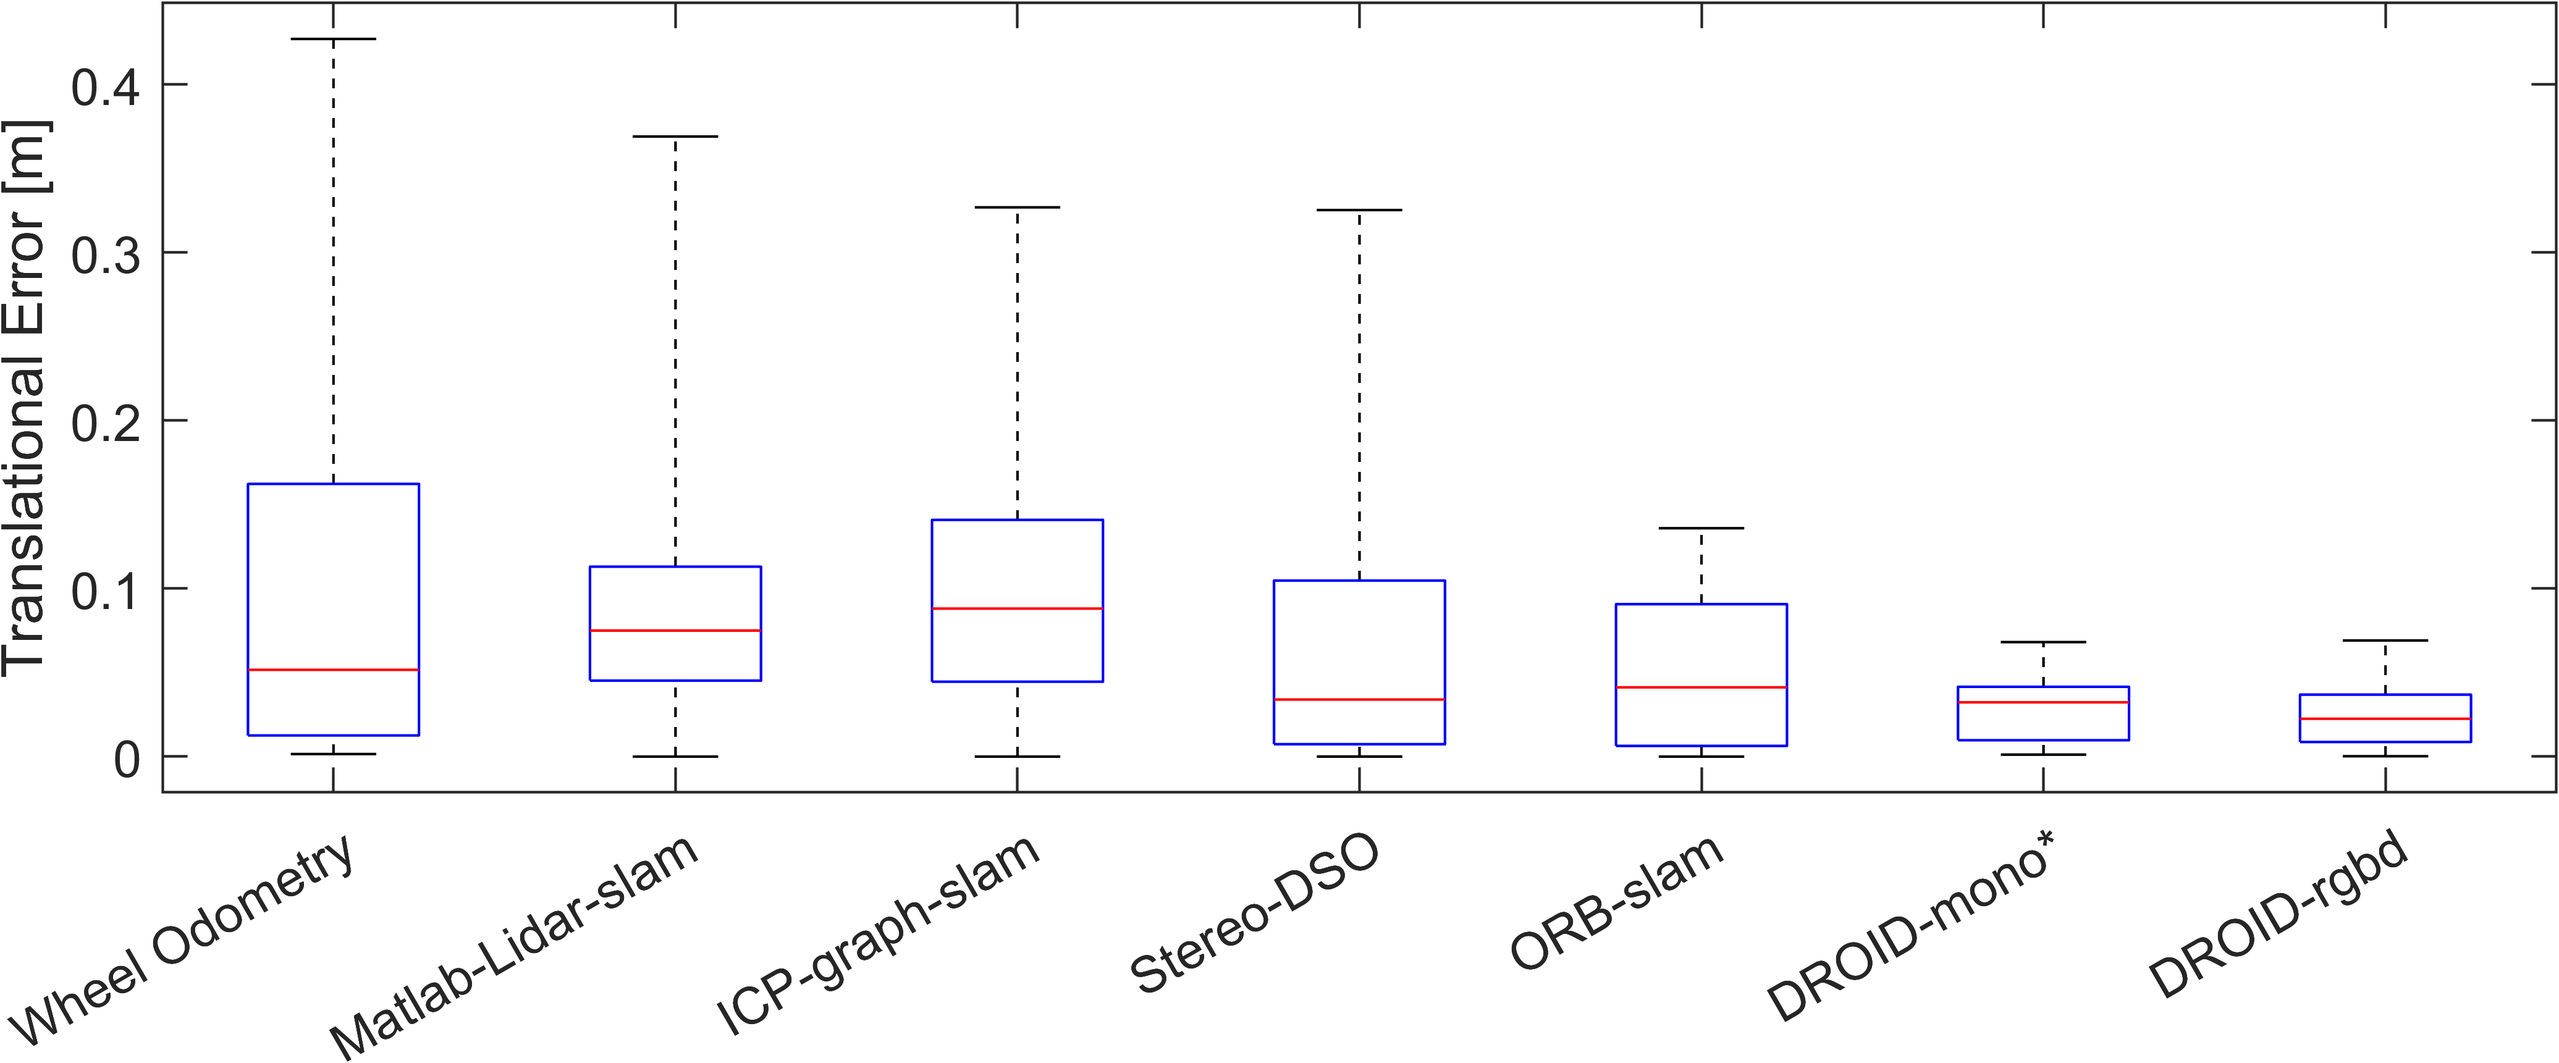
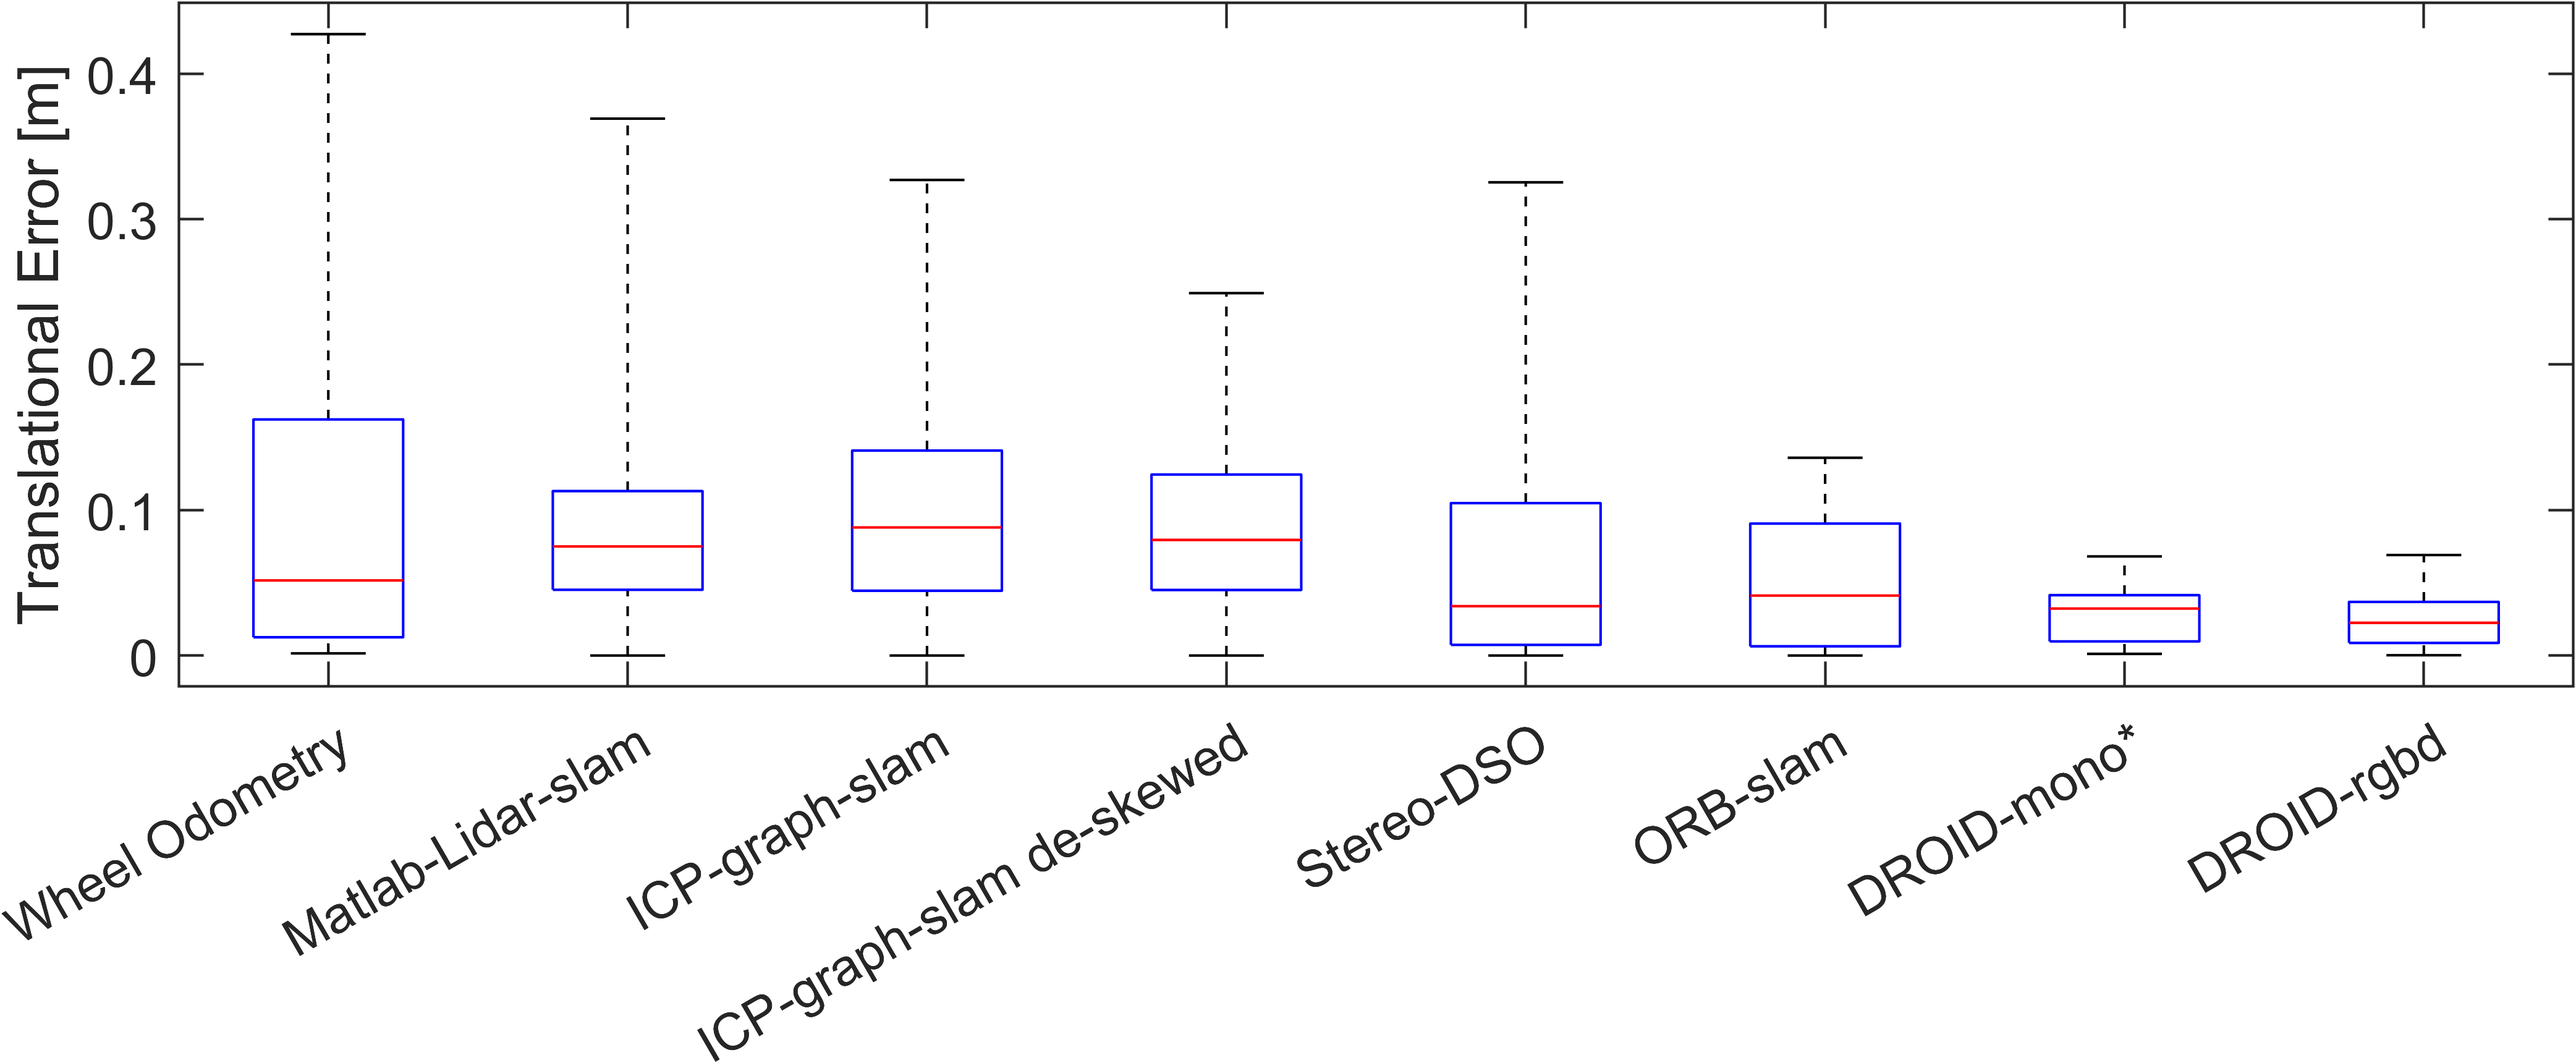
Add icp deskewed result to evaluation script

diff --git a/Rikirobot/Matlab/example_compare_trajectories/main.m b/Rikirobot/Matlab/example_compare_trajectories/main.m
@@ -39,6 +39,8 @@ poses_lidar_slam=poses;
 % import trajectory from icp graph slam
 load('../example_icp_graph_slam/final_poses_graph_icp.mat')
 poses_icp_graph_slam = Poses;
+load('../example_icp_graph_slam/final_poses_graph_icp_deskewed.mat')
+poses_icp_graph_slam_deskewed = Poses;
 
 % translate and rotated poses_slam by the start pose of gt
 poses_lidar_slam(:,1)=poses_lidar_slam(:,1)+poses_gt(1,1);
@@ -46,9 +48,12 @@ poses_lidar_slam(:,2)=poses_lidar_slam(:,2)+poses_gt(1,2);
 poses_lidar_slam(:,3)=poses_lidar_slam(:,3)+poses_gt(1,3);
 
 % translate and rotated poses of icp graph slam by the start pose of gt
-poses_icp_graph_slam(:,1)=Poses(:,1)+poses_gt(1,1);
-poses_icp_graph_slam(:,2)=Poses(:,2)+poses_gt(1,2);
-poses_icp_graph_slam(:,3)=Poses(:,3)+poses_gt(1,3);
+poses_icp_graph_slam(:,1)=poses_icp_graph_slam(:,1)+poses_gt(1,1);
+poses_icp_graph_slam(:,2)=poses_icp_graph_slam(:,2)+poses_gt(1,2);
+poses_icp_graph_slam(:,3)=poses_icp_graph_slam(:,3)+poses_gt(1,3);
+poses_icp_graph_slam_deskewed(:,1)=Poses(:,1)+poses_gt(1,1);
+poses_icp_graph_slam_deskewed(:,2)=Poses(:,2)+poses_gt(1,2);
+poses_icp_graph_slam_deskewed(:,3)=Poses(:,3)+poses_gt(1,3);
 
 % plot
 % figure
@@ -87,32 +92,34 @@ poses_droid_mono = poses_droid_mono * 1.2;
 % exportgraphics(gca,'example_compare_trajectories_vision.png','Resolution',300)
 
 %% Quantitative result estimate-to-GT
-[dist1, g1] = evalE2G(poses_gt, poses_odometry, 'Odometry');
-[dist2, g2] = evalE2G(poses_gt, poses_lidar_slam(:,[1,2]), 'Lidar-slam');
-[dist3, g3] = evalE2G(poses_gt, poses_icp_graph_slam(:,[1,2]), 'ICP-graph-slam');
-[dist6, g6] = evalE2G(poses_gt, poses_stereo_dso, 'Stereo-DSO');
-[dist7, g7] = evalE2G(poses_gt, poses_orb_slam, 'ORB-slam');
-[dist4, g4] = evalE2G(poses_gt, poses_droid_mono, 'DROID-mono');
-[dist5, g5] = evalE2G(poses_gt, poses_droid_rgbd, 'DROID-rgbd');
-
-dist = [dist1; dist2; dist3; dist6; dist7; dist4; dist5];
-g = [g1; g2; g3; g6; g7; g4; g5];
-figure
-boxplot(dist, g)
-title('Absolute trajectory error (ATE) Estimate-to-GT')
-ylabel('Error [m]')
+% [dist1, g1] = evalE2G(poses_gt, poses_odometry, 'Odometry');
+% [dist2, g2] = evalE2G(poses_gt, poses_lidar_slam(:,[1,2]), 'Lidar-slam');
+% [dist3, g3] = evalE2G(poses_gt, poses_icp_graph_slam(:,[1,2]), 'ICP-graph-slam');
+% [dist8, g8] = evalE2G(poses_gt, poses_icp_graph_slam_deskewed(:,[1,2]), 'ICP-graph-slam de-skewed');
+% [dist6, g6] = evalE2G(poses_gt, poses_stereo_dso, 'Stereo-DSO');
+% [dist7, g7] = evalE2G(poses_gt, poses_orb_slam, 'ORB-slam');
+% [dist4, g4] = evalE2G(poses_gt, poses_droid_mono, 'DROID-mono');
+% [dist5, g5] = evalE2G(poses_gt, poses_droid_rgbd, 'DROID-rgbd');
+% 
+% dist = [dist1; dist2; dist3; dist8; dist6; dist7; dist4; dist5];
+% g = [g1; g2; g3; g8; g6; g7; g4; g5];
+% figure
+% boxplot(dist, g)
+% title('Absolute trajectory error (ATE) Estimate-to-GT')
+% ylabel('Error [m]')
 
 %% Quantitative result GT-to-estimate
 [dist1, g1] = evalG2E(poses_gt, poses_odometry, 'Wheel Odometry');
 [dist2, g2] = evalG2E(poses_gt, poses_lidar_slam(:,[1,2]), 'Matlab-Lidar-slam');
 [dist3, g3] = evalG2E(poses_gt, poses_icp_graph_slam(:,[1,2]), 'ICP-graph-slam');
+[dist8, g8] = evalG2E(poses_gt, poses_icp_graph_slam_deskewed(:,[1,2]), 'ICP-graph-slam de-skewed');
 [dist6, g6] = evalG2E(poses_gt, poses_stereo_dso, 'Stereo-DSO');
 [dist7, g7] = evalG2E(poses_gt, poses_orb_slam, 'ORB-slam');
 [dist4, g4] = evalG2E(poses_gt, poses_droid_mono, 'DROID-mono*');
 [dist5, g5] = evalG2E(poses_gt, poses_droid_rgbd, 'DROID-rgbd');
 
-dist = [dist1; dist2; dist3; dist6; dist7; dist4; dist5];
-g = [g1; g2; g3; g6; g7; g4; g5];
+dist = [dist1; dist2; dist3; dist8; dist6; dist7; dist4; dist5];
+g = [g1; g2; g3; g8; g6; g7; g4; g5];
 
 figure('Position', [10 10 800 300]);
 boxplot(dist, g, 'Whisker', 1e4)
@@ -123,6 +130,8 @@ exportgraphics(gca, 'ATE_G2E.png', 'Resolution', 600)
 %% Joint figure
 figure('Position', [10 10 1200 600]);
 t = tiledlayout(1,3,'Padding','tight');
+t.TileSpacing = 'compact';
+t.Padding = 'compact';
 axis_limits = [-1, 4.5, -1, 7];
 
 nexttile
@@ -135,20 +144,23 @@ plot(poses_gt(length(poses_gt),1), poses_gt(length(poses_gt),2), 'rv', 'markerSi
 axis equal
 axis([-1, 4.5, -1, 7])
 grid on
-xlabel('a)','fontsize',14)
+xlabel({'\fontsize{10}X[m]','\fontsize{14}a)'})
+ylabel('Y[m]','fontsize',10)
 
 nexttile
 plot(poses_gt(:,1),poses_gt(:,2),'.-k')
 hold on
 plot(poses_lidar_slam(:,1),poses_lidar_slam(:,2),'.-r', 'markerSize', 3)
 plot(poses_icp_graph_slam(:,1),poses_icp_graph_slam(:,2),'.-', 'markerSize', 3, 'color', [0.3010 0.7450 0.9330])
+plot(poses_icp_graph_slam_deskewed(:,1),poses_icp_graph_slam_deskewed(:,2),'.-', 'markerSize', 3, 'color', [0.8 0.54 0.33])
 % legend('GT','Lidar SLAM','Lidar ICP Graph SLAM','Location','eastoutside'	)
 plot(poses_gt(1,1), poses_gt(1,2), 'b>', 'markerSize', 2, 'LineWidth',3)
 plot(poses_gt(length(poses_gt),1), poses_gt(length(poses_gt),2), 'rv', 'markerSize', 2, 'LineWidth',3)
 axis equal
 axis(axis_limits)
 grid on
-xlabel('b)','fontsize',14)
+xlabel({'\fontsize{10}X[m]','\fontsize{14}b)'})
+% xlabel('b)','fontsize',14)
 
 nexttile
 plot(poses_gt(:,1),poses_gt(:,2),'.-k')
@@ -156,6 +168,7 @@ hold on
 plot([-5,-5],'.-b')
 plot([-5,-5],'.-r')
 plot([-5,-5],'.-', 'color', [0.3010 0.7450 0.9330])
+plot([-5,-5],'.-', 'color', [0.8 0.54 0.33])
 
 plot(poses_orb_slam(:,1), poses_orb_slam(:,2),'.-', 'markerSize', 1, 'Color', [0 0.4470 0.7410])
 plot(poses_stereo_dso(:,1), poses_stereo_dso(:,2),'.-g', 'markerSize', 1)
@@ -164,11 +177,11 @@ plot(poses_droid_rgbd(:,1), poses_droid_rgbd(:,2),'.-m', 'markerSize', 1)
 
 plot(poses_gt(1,1), poses_gt(1,2), 'b>', 'markerSize', 2, 'LineWidth',3)
 plot(poses_gt(length(poses_gt),1), poses_gt(length(poses_gt),2), 'rv', 'markerSize', 2, 'LineWidth',3)
-legend('GT','Wheel Odometry','Matlab-Lidar-slam','ICP-Graph-slam', 'Stereo-ORB-SLAM','Stereo-DSO','DROID-mono*','DROID-rgbd','Start', 'End','Location','eastoutside')
+legend('GT','Wheel Odometry','Matlab-Lidar-slam','ICP-Graph-slam', 'ICP-Graph-slam de-skewed','Stereo-ORB-SLAM','Stereo-DSO','DROID-mono*','DROID-rgbd','Start', 'End','Location','eastoutside')
 axis equal
 axis(axis_limits)
 grid on
-xlabel('c)','fontsize',14)
+xlabel({'\fontsize{10}X[m]','\fontsize{14}c)'})
 exportgraphics(t, 'joint.png', 'Resolution', 600)
 
 
